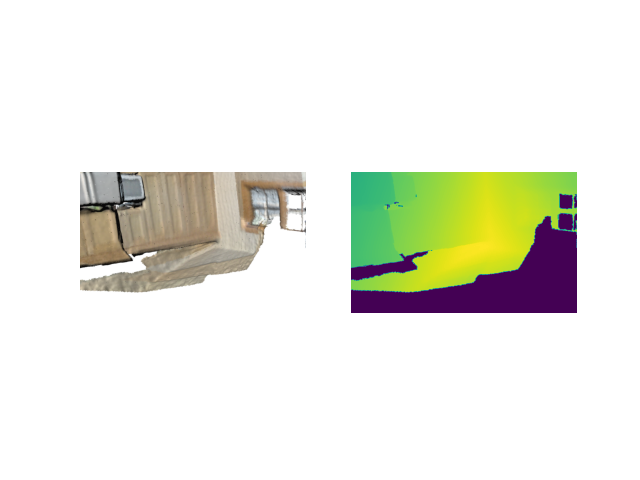
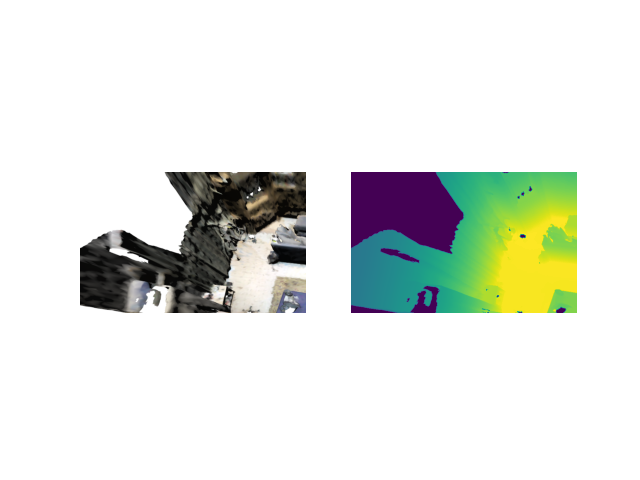
virtual loader begin

Changed region(s): [[0.5312, 0.3438, 0.9062, 0.6562], [0.125, 0.3438, 0.5, 0.6562]]

diff --git a/utils/virtualview_loader.py b/utils/virtualview_loader.py
@@ -1,19 +1,179 @@
 import numpy as np
 import torch.utils.data as data
-
+import os
+import torch
+from plyfile import PlyData
 
 class VirtualviewScannetDataset(data.Dataset):
     """
-    TODO: Add virtual view
+    Dataset of Scenes, virtual view
     """
-    def __init__(self, cfg, mode='train', use_transform=True):
+    def __init__(self, cfg, mode='train',use_transform=True):
+
         self.cfg = cfg
         self.use_transform = use_transform
-        self.mode=mode
-    
-    def __len__(self):
-        pass
+        if mode=='train':
+            self.root_path = cfg.dataset.train_path        
+        elif mode=='test':
+            self.root_path = cfg.dataset.test_path
+        else:
+            raise Exception("Mode Error: Only Train/Test Supported")
 
-    def __getitem__(self):
-        pass
+        self.mode = mode
+        self.dir_list = os.listdir(self.root_path)
+        
+        self.mapping = self.get_vaild_class_mapping()
+
+
+    def __len__(self):
+        return len(self.dir_list)
+    
+    def __getitem__(self, index):
+        scene_id = self.dir_list[index]
+
+        # TODO: load virtual img
+        # # get images, including color and depth
+        # imgset = ImageDataset(cfg=self.cfg, 
+        #                 root_path=self.root_path, 
+        #                 scene_id=scene_id,
+        #                 use_transform=self.use_transform) 
+        
+        # get mesh
+        mesh_file_path = os.path.join(self.root_path, scene_id, "%s_vh_clean_2.ply"%(scene_id))
+        agg_file_path = os.path.join(self.root_path, scene_id,"%s.aggregation.json"%(scene_id)) 
+        seg_file_path = os.path.join(self.root_path, scene_id, "%s_vh_clean_2.0.010000.segs.json"%(scene_id))
+        label_map_file_path = self.cfg.dataset.label_map
+
+        axis_alignment = np.fromstring(open(os.path.join(self.root_path, scene_id, "%s.txt" % (scene_id))).readline().split('=')[1], sep=' \n\t', dtype=float).reshape(4, 4)
+        
+        mesh_vertices, semantic_label, instance_label = get_train_mesh(mesh_file_path,
+                            agg_file_path,
+                            seg_file_path,
+                            label_map_file_path,
+                            type='instance')
+        mesh_vertices = torch.from_numpy(mesh_vertices.astype(np.float64))
+        
+        # process the semantic label into the benchmark label
+        semantic_label = torch.from_numpy(semantic_label.astype(np.int32))
+        
+        valid_class_id = self.cfg.valid_class_ids
+        mask = torch.zeros_like(semantic_label).bool()
+        for class_id in valid_class_id:
+            mask = mask | (semantic_label==class_id)
+        
+        semantic_label_ = torch.zeros_like(semantic_label)
+        semantic_label_[mask] = semantic_label[mask]
+        semantic_label = semantic_label_
+        
+        def idx_map(idx):
+            return self.mapping[idx]
+        semantic_label = torch.from_numpy(np.array(list(map(idx_map, semantic_label)))).long()
+        
+        # # get camera params
+        # intrinsic_path = os.path.join(self.root_path, scene_id, "exported", "intrinsic")
+        # intrinsic_color_matrix = self.get_intrinsic_matrix(os.path.join(intrinsic_path, "intrinsic_color.txt"))
+        # intrinsic_depth_matrix = self.get_intrinsic_matrix(os.path.join(intrinsic_path, "intrinsic_depth.txt"))
+        
+        # # get align extrinsic
+        # colorToDepthExtrinsics = self.get_align_extrinsic(scene_id)
+
+        # alignment?
+        # mesh_vertices = (mesh_vertices - axis_alignment[:3, -1]) @ axis_alignment[:3, :3]
+        pc_xyz, pc_color = self.get_pointcloud(scene_id)
+        pc_xyz, pc_color = torch.from_numpy(pc_xyz).double(), torch.from_numpy(pc_color).double()
+
+        return { # 'imgset':imgset, 
+                'point_cloud_xyz':pc_xyz,
+                'point_cloud_color':pc_color,
+                'mesh_vertices':mesh_vertices, 
+                'semantic_label':semantic_label, 
+                'instance_label':instance_label,
+                # 'intrinsic_color':intrinsic_color_matrix,
+                # 'intrinsic_depth':intrinsic_depth_matrix,
+                # 'extrinsic_color_to_depth':colorToDepthExtrinsics
+                }
+
+    def get_pointcloud(self, scene_id):
+        mesh_file_path = os.path.join(self.root_path, scene_id, "%s_vh_clean_2.ply"%(scene_id))
+        # 1 get vertices
+        with open(mesh_file_path, 'rb') as f:
+            plydata = PlyData.read(f)
+            num_verts = plydata['vertex'].count
+            vertices = np.zeros(shape=[num_verts, 6], dtype=np.float32)
+            vertices[:, 0] = plydata['vertex'].data['x']
+            vertices[:, 1] = plydata['vertex'].data['y']
+            vertices[:, 2] = plydata['vertex'].data['z']
+            vertices[:, 3] = plydata['vertex'].data['red']
+            vertices[:, 4] = plydata['vertex'].data['green']
+            vertices[:, 5] = plydata['vertex'].data['blue']
+        
+        # 2   get axisAlignment
+        meta_file = os.path.join(self.root_path, scene_id,'%s.txt'%(scene_id))
+        lines = open(meta_file).readlines()
+        axis_align_matrix = None
+        for line in lines:
+            if 'axisAlignment' in line:
+                axis_align_matrix = [float(x) for x in line.rstrip().strip('axisAlignment = ').split(' ')]
+
+        # 3. Offset point cloud PLY file
+        if axis_align_matrix != None:
+            axis_align_matrix = np.array(axis_align_matrix).reshape((4, 4)) #  matrix
+            pts = np.ones((vertices.shape[0], 4))
+            pts[:, 0:3] = vertices[:, :3]
+            pts = np.dot(pts, axis_align_matrix.transpose())
+            aligned_vertices = np.copy(vertices)
+            aligned_vertices[:, 0:3] = pts[:, 0:3]
+
+        # 4. Re-write PLY
+        points = aligned_vertices[:,:3]
+        colors = aligned_vertices[:,3:6]
+   
+        return points, colors
+
+    def get_vaild_class_mapping(self):
+        valid_class_ids = self.cfg.valid_class_ids
+        max_id = valid_class_ids[0]
+        mapping = np.ones(max_id+1)*valid_class_ids.index(max_id)
+        
+        for i in range(max_id+1):
+            if i in valid_class_ids:
+                mapping[i] = valid_class_ids.index(i)
+            else:
+                mapping[i] = valid_class_ids.index(max_id)
+        
+        return mapping
+
+
+    def get_intrinsic_matrix(self, file_path):
+        """
+        read the intrinsic matrix in file *.txt
+        """
+        with open(file_path, 'r') as f:
+            matrix = [[float(num) for num in line.split(' ')] for line in f]
+        matrix = torch.from_numpy(np.array(matrix))
+        return matrix
+
+    def get_align_extrinsic(self,scene_id):
+        """
+        Read colorToDepthExtrinsics in .txt file
+
+        TODO: Check whether we extract the extrinsic correctly.
+        """
+        file_path = os.path.join(self.root_path, scene_id,'%s.txt'%(scene_id))
+        target_line = None
+        with open(file_path, 'r') as open_file:
+            for line in open_file:
+                if line.split()[0]=='colorToDepthExtrinsics':
+                    target_line = line
+                    break
+        target_line=target_line.split()
+        del target_line[0]
+        del target_line[0]
+        extrinsic_matrix = torch.zeros(4,4).float()
+        
+        for i in range(4):
+            for j in range(4):
+                extrinsic_matrix[i][j] = float(target_line[i*4+j])
+        return extrinsic_matrix
+
 

diff --git a/render/renderer.py b/render/renderer.py
@@ -7,6 +7,8 @@ import math
 os.environ['MUJOCO_GL'] = 'egl'
 os.environ['PYOPENGL_PLATFORM'] = 'egl'
 os.environ['DISPLAY'] = ':0.0'
+import warnings
+
 
 
 
@@ -23,7 +25,7 @@ class Renderer:
     def render_one_image(self,
                         intrinsic_matrix, 
                         pose_matrix, 
-                        z_near=0.5, 
+                        z_near=0.01, 
                         z_far=100, 
                         light_color=[1.0, 1.0, 1.0],# RGB
                         light_intensity=5.0,
@@ -33,6 +35,9 @@ class Renderer:
         """
         return: RGB image, Depth image
         """
+        # ignore warnings 
+        warnings.filterwarnings('ignore')
+        
         # camera
         fx = intrinsic_matrix[0][0]
         fy = intrinsic_matrix[1][1]
@@ -104,8 +109,8 @@ class Renderer:
         
     
 def demo():
-    test_file = "scene0000_00_vh_clean.ply"
-    #test_file = "data/scene0000_00_vh_clean_2.labels.ply"
+    # test_file = "scene0000_00_vh_clean_2.labels.ply"
+    test_file = "data/scene0000_00_vh_clean_2.ply"
 
     # create a renderer
     new_renderer = Renderer()
@@ -114,16 +119,26 @@ def demo():
     new_renderer.load_3dmesh(test_file)
 
     # camera params load
-    pose_matrix = new_renderer.get_camera_pose_matrix(0, 0, 0, 0, 0, 0)
-    pose_matrix = np.array([[-0.955421, 0.119616, -0.269932, 2.655830],
-    [0.295248, 0.388339 ,-0.872939, 2.981598],
-    [0.000408 ,-0.913720, -0.406343, 1.368648],
-    [0.000000, 0.000000, 0.000000, 1.000000]])
+    # 50 0 30 n
+    # 50 30 0 n
+    # 0 50 30 n
+    # 0 30 50 n
+    # 30 50 0 
+    # 30 0 50 
+    pose_matrix = new_renderer.get_camera_pose_matrix(5.5, 1, 4, 40, 0, 30)
+
     ### intrinsic_matrix = new_renderer.get_camera_intrinsic_matrix()
     ### or
     intrinsic_matrix = np.array([
         [1169.621094 ,0.000000, 646.295044, 0.000000],
     [0.000000, 1167.105103, 489.927032, 0.000000],
+    [0.000000 , 0.000000 ,1.000000 , 0.000000],
+    [0.000000 ,0.000000 ,0.000000 ,1.000000],
+    ])
+
+    intrinsic_matrix = np.array([
+        [300 ,0.000000, 640, 0.000000],
+    [0.000000, 200, 480, 0.000000],
     [0.000000 , 0.000000 ,1.000000 , 0.000000],
     [0.000000 ,0.000000 ,0.000000 ,1.000000],
     ])
